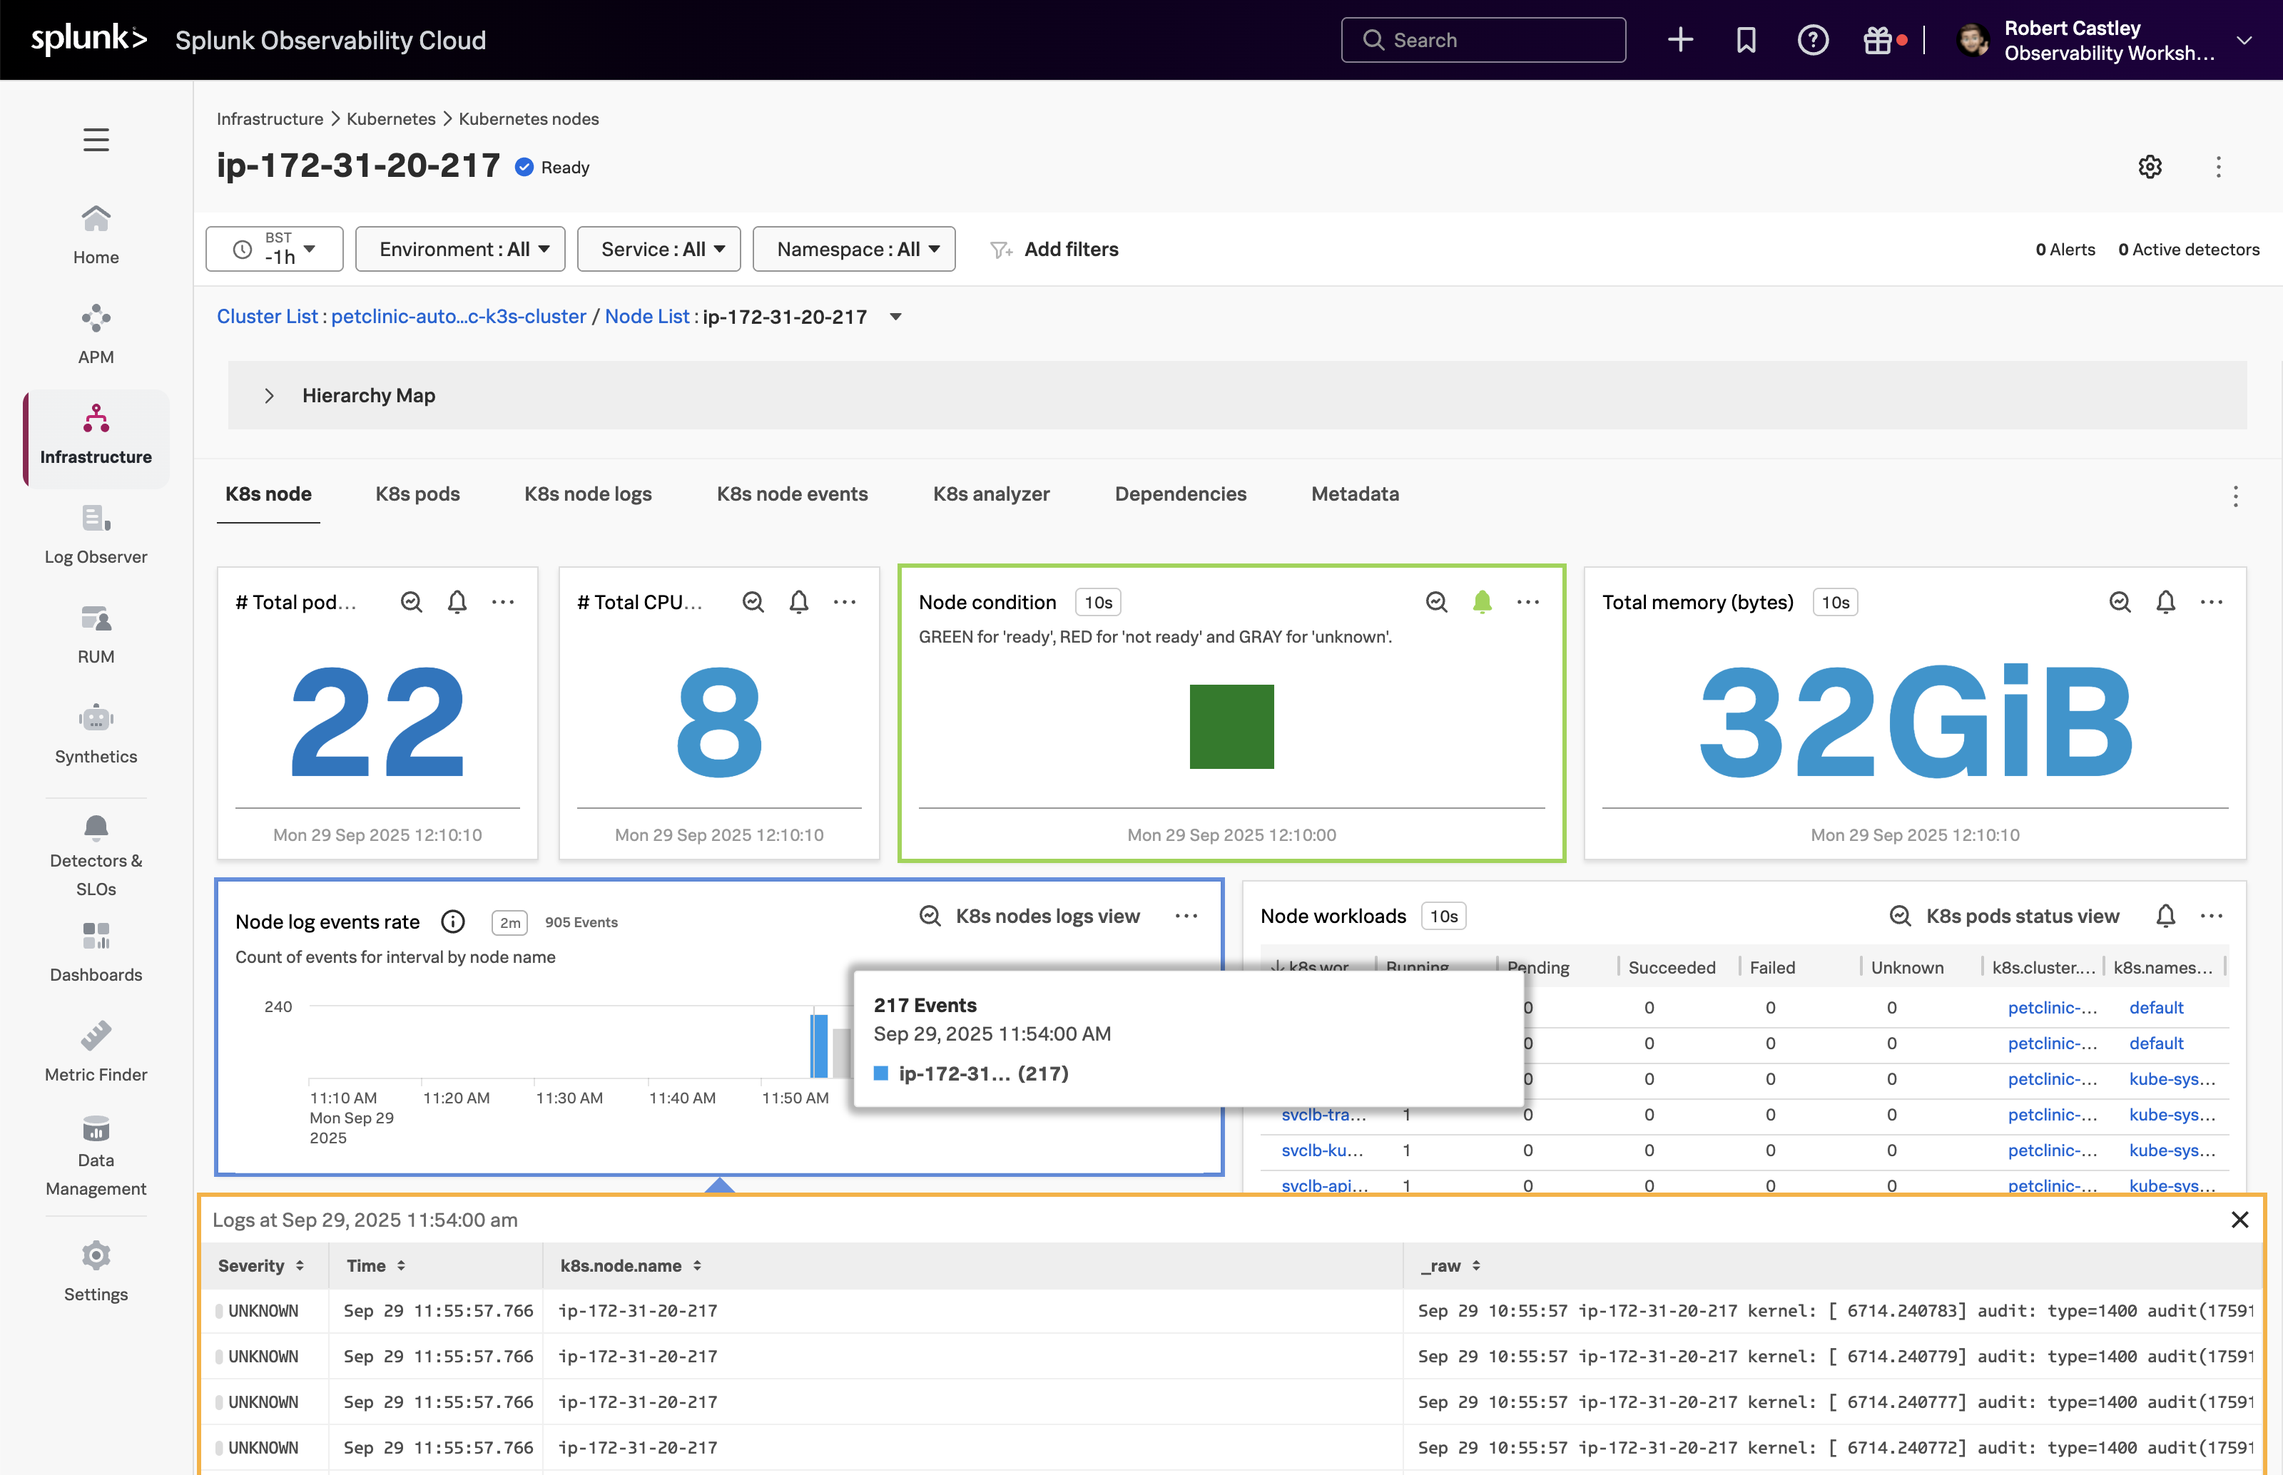
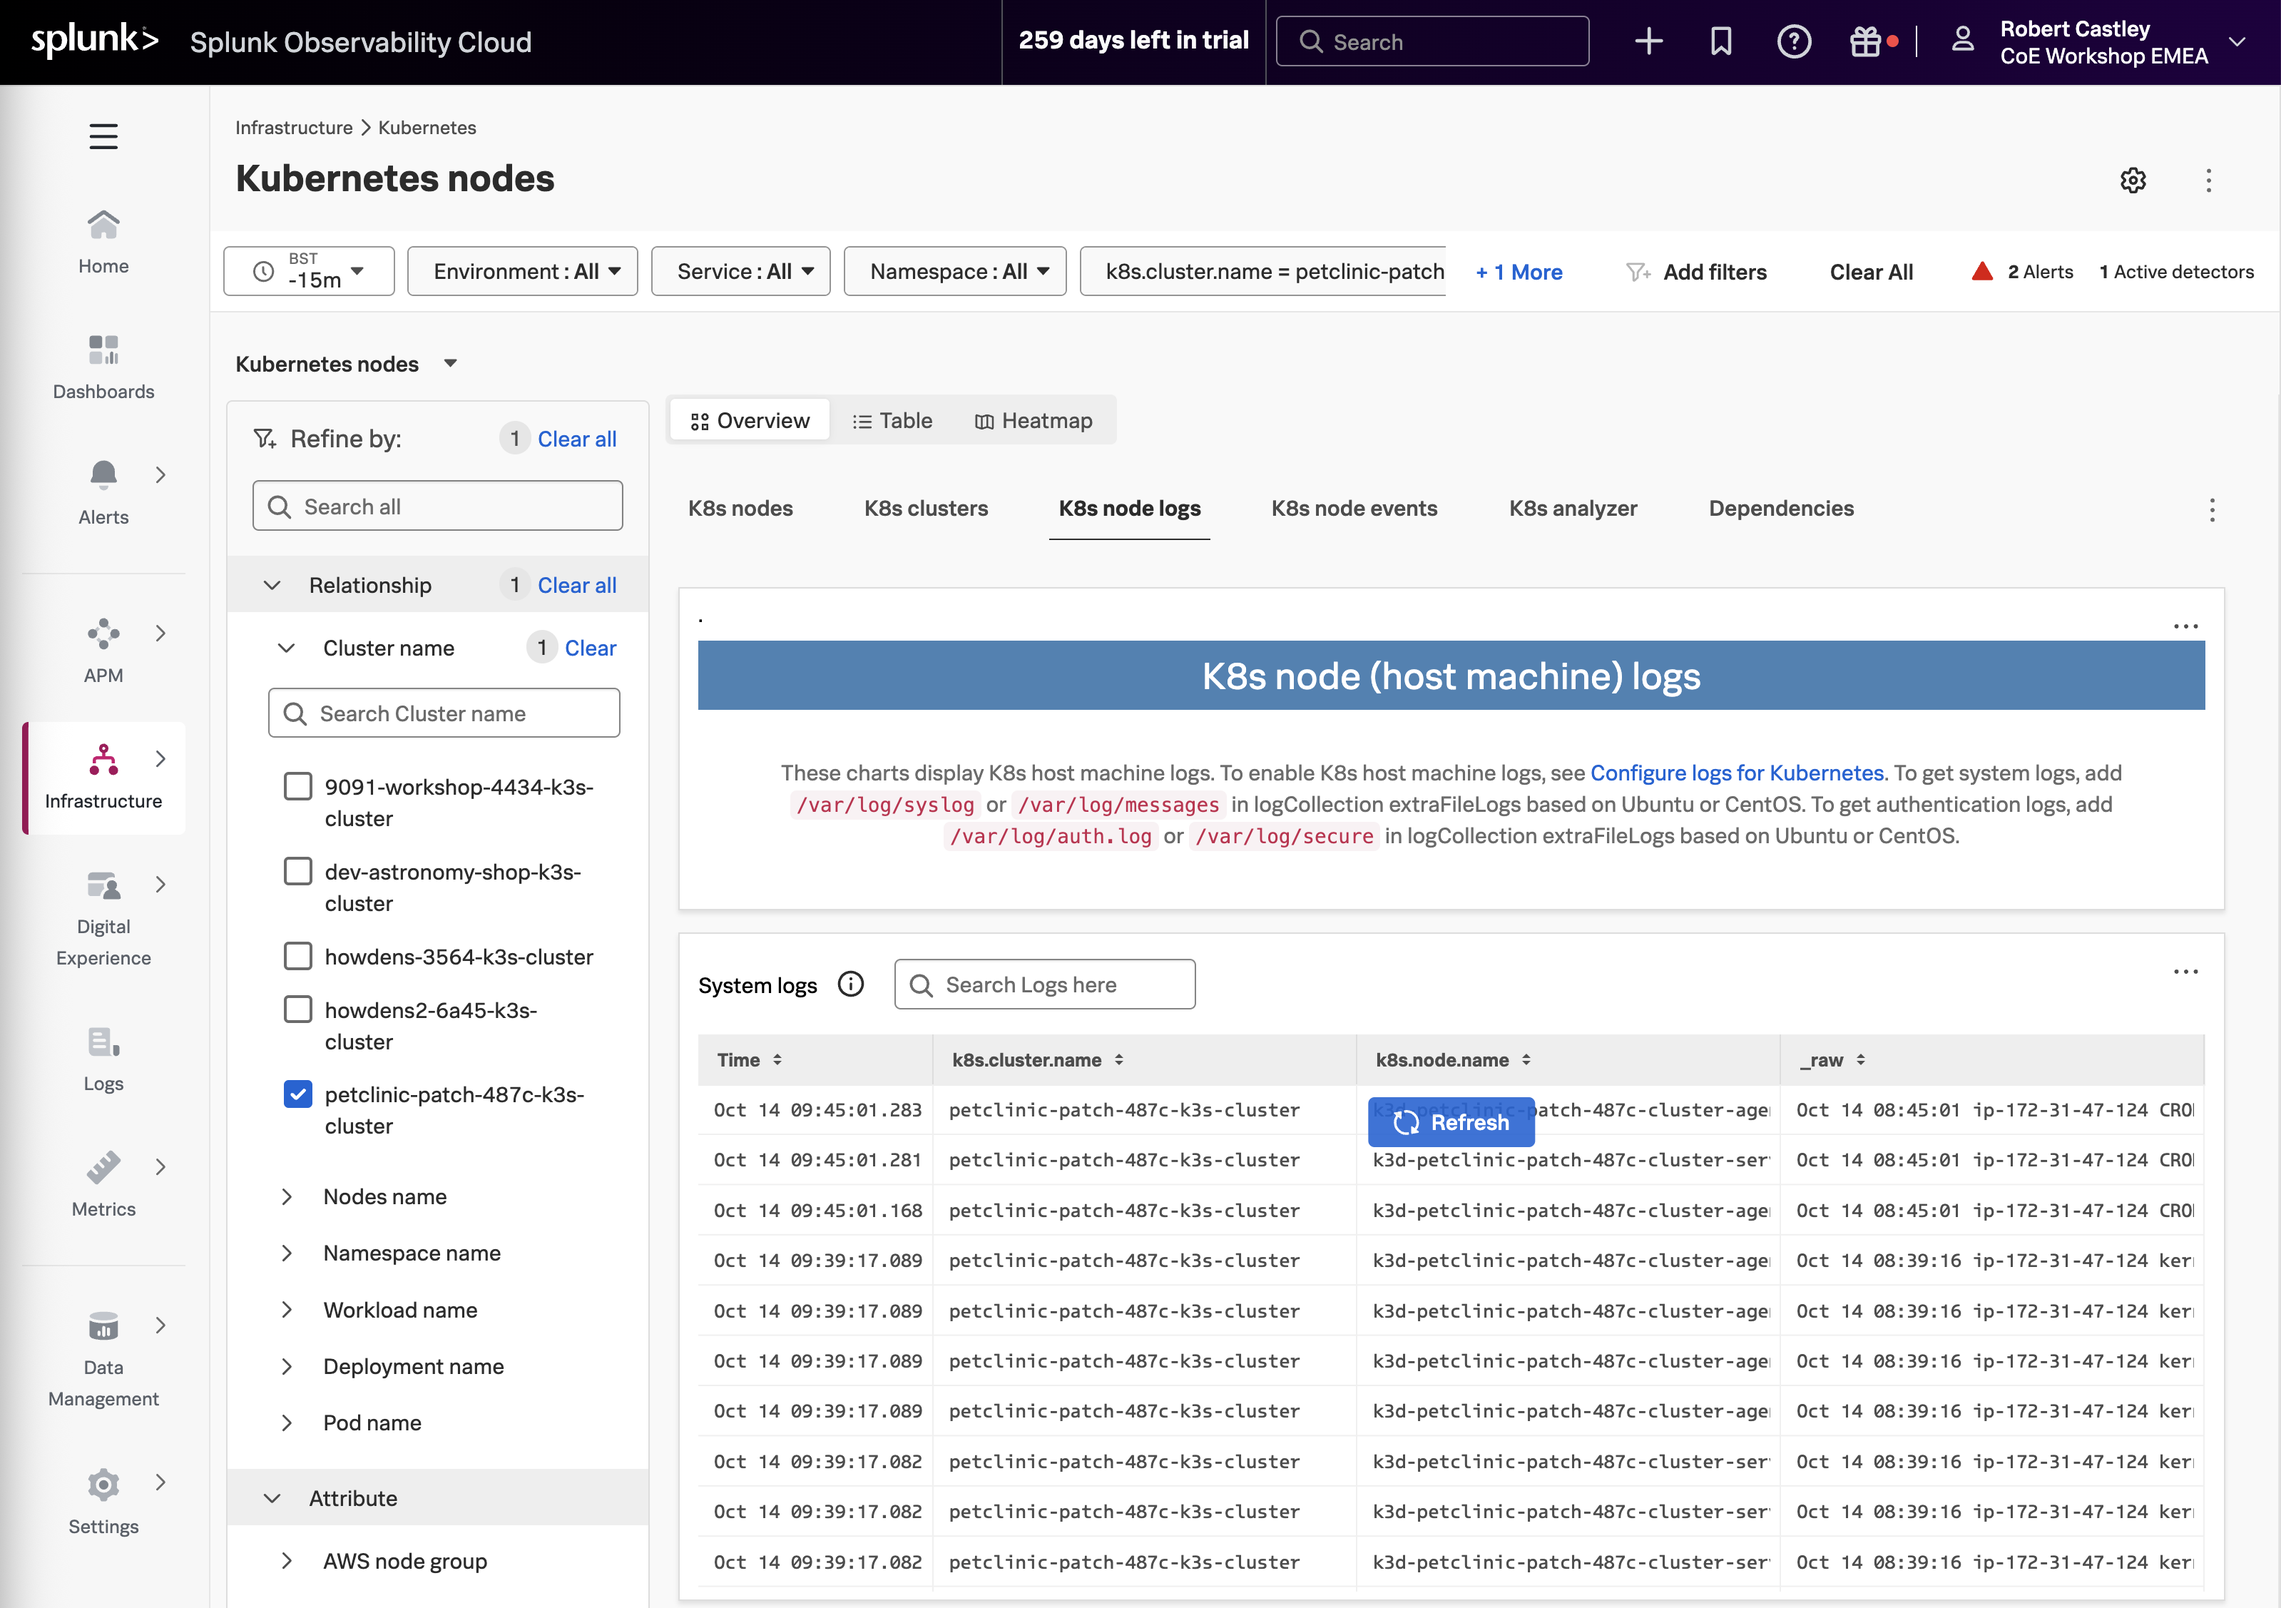
Updated screenshots for k3d

diff --git a/content/en/ninja-workshops/1-automatic-discovery/2-petclinic-kubernetes/3-verify-setup/_index.md b/content/en/ninja-workshops/1-automatic-discovery/2-petclinic-kubernetes/3-verify-setup/_index.md
@@ -11,14 +11,18 @@ From the left-hand menu, click on **Infrastructure** and select **Kubernetes**, 
 
 ![NavigatorList](../images/navigatorlist.png)
 
-Once you are in the **Kubernetes nodes** overview, change the **Time** filter from **-4h** to the last 15 minutes **(-15m)** to focus on the latest data, then select **Table** to list all the nodes that are reporting metrics.
+Once you are in the **Kubernetes nodes** overview, change the **Time** filter from **-1h** to the last 15 minutes **(-15m)** to focus on the latest data, then select **Table** to list all the nodes that are reporting metrics.
 
-Next, from the list of nodes, select the **Node name** of your workshop instance.
+Next, in the **Refine by:** panel, select **Cluster name** and choose your cluster from the list.
 
 {{% notice title="Tip" style="info" icon="lightbulb" %}}
 To identify your specific cluster, use the `INSTANCE` value from the shell script output you ran during setup. This unique identifier helps you locate your workshop cluster among other nodes in the list.
 {{% /notice %}}
 
-You will now only have your cluster visible. Scroll down the page to see the metrics coming in from your cluster. Locate the **Node log events rate** chart and click on a vertical bar to see the log entries coming in from your cluster.
+This will filter the list to show only the nodes from your cluster.
+
+![K8s Nodes](../images/k8s-nodes.png)
+
+Switch to the **K8s node logs** view to see the logs from your nodes.
 
 ![Logs](../images/k8s-peek-at-logs.png)
